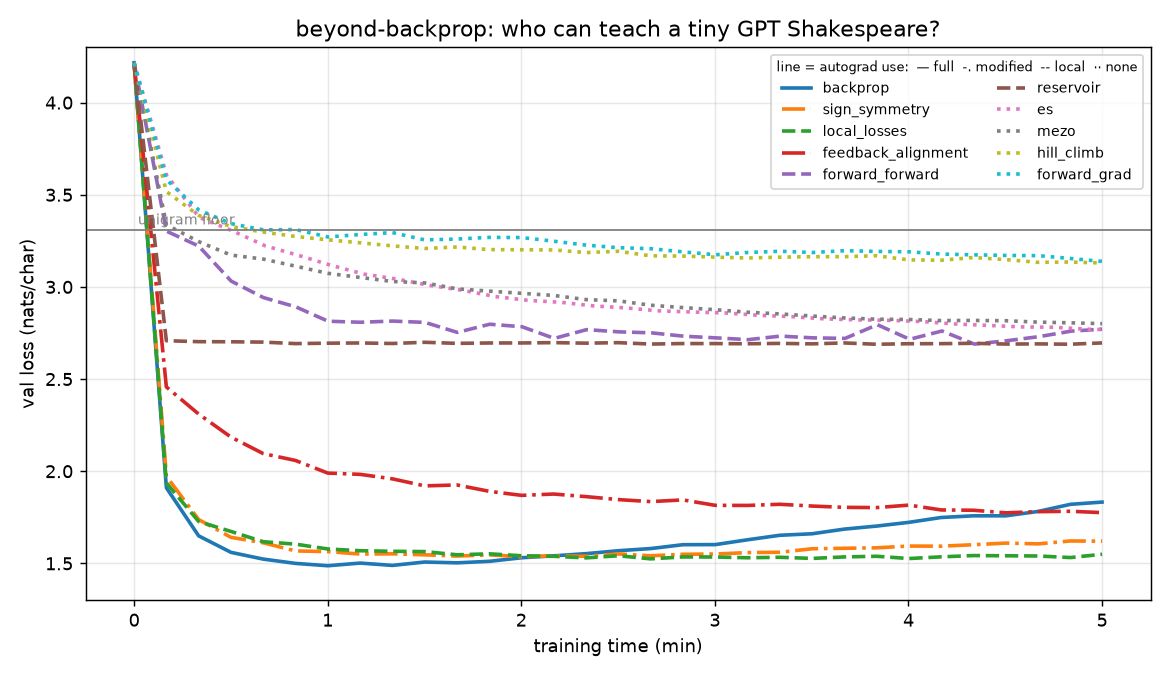
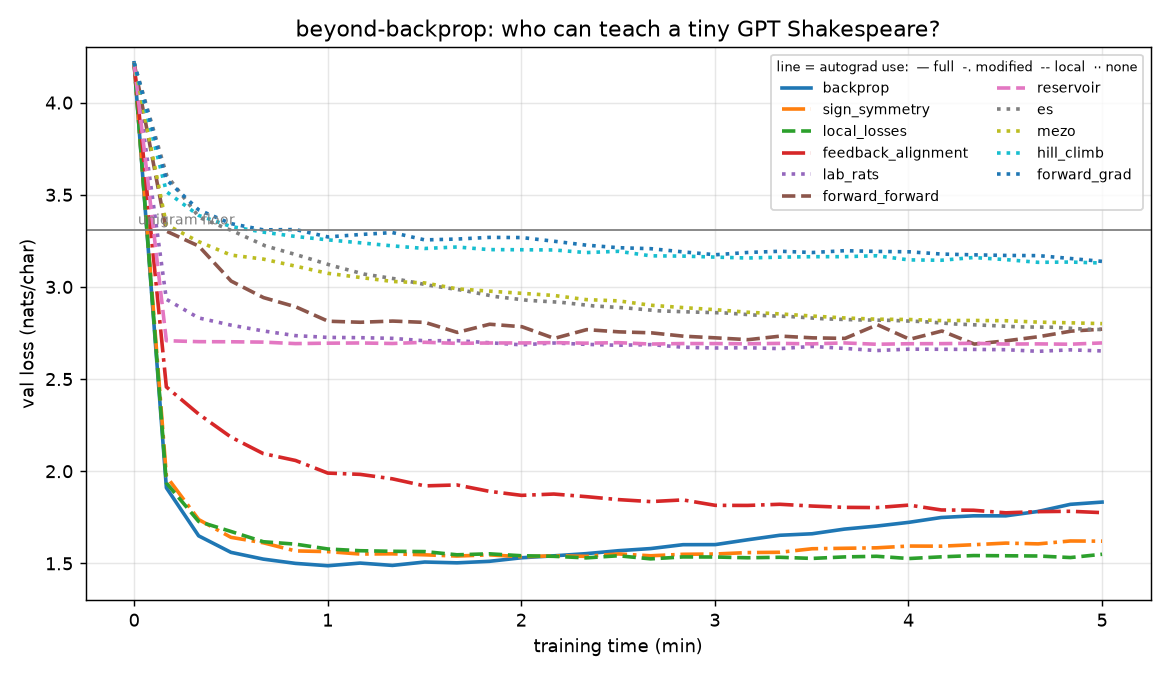
New rule: lab_rats (per-token node perturbation), first no-backward-pass rule to beat the random reservoir

diff --git a/bbp/rules/lab_rats.py b/bbp/rules/lab_rats.py
@@ -1,0 +1,99 @@
+"""LAB RATS: every token is its own experiment.
+
+Weight-perturbation rules (mezo, es, hill_climb) jiggle all 830k weights at
+once and get ONE number back per forward pass: did the loss go up or down?
+Hopeless signal-to-noise.
+
+Here we jiggle *neurons* instead of weights, and we do it independently at
+every token. A batch is 32 x 128 = 4,096 tokens, so one pair of forward passes
+runs 4,096 tiny experiments in parallel:
+
+  1. forward with +noise on the output of every Linear layer (and the embedding),
+     fresh noise for every token and every neuron
+  2. forward again with the *same* noise flipped to -noise
+  3. per token, the loss difference says whether that token's jolt helped:
+         dL/dy  ~=  (L+ - L-) / (2 sigma^2) * noise
+  4. each layer turns that into a weight update the Hebbian way, as an outer
+     product with its own input:  dW = sum_tokens  dL/dy (x) input
+
+No backward pass, no autograd, no weight transport. Every update is local to
+its layer; the only global thing is the per-token loss, broadcast like a
+dopamine signal.
+
+The cheat it makes: a token's loss difference is credited only to the noise at
+*that* token, ignoring how it leaked into later tokens through attention.
+Biased, but orders of magnitude less noisy.
+
+Lineage: node perturbation (Williams 1992; Fiete & Seung 2006; Dalm et al. 2023).
+The per-token-credit twist is the crazy bit.
+"""
+import torch
+import torch.nn as nn
+import torch.nn.functional as F
+
+from . import Rule, register
+
+
+@register
+class LabRats(Rule):
+    name = "lab_rats"
+    autograd = "none"
+    blurb = "Jolt every neuron at every token, 4,096 parallel experiments per batch; per-token loss change -> Hebbian outer-product updates."
+    paper = "node perturbation (Williams 1992; Fiete & Seung 2006) + per-token credit in a causal LM (the twist tried here)"
+    defaults = dict(lr=1e-3, sigma=0.03)
+
+    def __init__(self, model, **hp):
+        super().__init__(model, **hp)
+        self.lins = [m for m in model.modules() if isinstance(m, nn.Linear)]
+        self.sites = self.lins + [model.tok_emb]  # where noise is injected
+        self.mode = 0  # 0 = clean (evaluation), +1 / -1 = antithetic noisy passes
+        self.noise, self.inputs = {}, {}
+        for m in self.sites:
+            m.register_forward_hook(self._hook)
+        params = [p for m in self.lins for p in m.parameters()]
+        params += [model.tok_emb.weight, model.pos_emb.weight]
+        self.opt = torch.optim.Adam(params, lr=self.hp["lr"])
+
+    def _hook(self, mod, inp, out):
+        if self.mode == 0:
+            return None
+        if self.mode == 1:
+            self.noise[mod] = torch.randn_like(out) * self.hp["sigma"]
+            self.inputs[mod] = inp[0]
+        else:  # average the + and - inputs: ~ the clean input, to first order
+            self.inputs[mod] = 0.5 * (self.inputs[mod] + inp[0]) if inp[0].is_floating_point() else inp[0]
+        return out + self.mode * self.noise[mod]
+
+    def _token_losses(self, x, y):
+        logits, _ = self.model(x)
+        return F.cross_entropy(logits.transpose(1, 2), y, reduction="none")  # (B, T)
+
+    @torch.no_grad()
+    def step(self, x, y):
+        sigma = self.hp["sigma"]
+        self.mode = 1
+        lp = self._token_losses(x, y)
+        self.mode = -1
+        lm = self._token_losses(x, y)
+        self.mode = 0
+        coef = (lp - lm) / (2 * sigma**2)  # (B, T): how much each token's jolt hurt
+        N = x.numel()
+
+        for m in self.lins:
+            g = coef.unsqueeze(-1) * self.noise[m]  # dL/d(output), per token
+            xin = self.inputs[m]
+            m.weight.grad = torch.einsum("bto,bti->oi", g, xin) / N  # Hebbian outer product
+            if m.bias is not None:
+                m.bias.grad = g.sum((0, 1)) / N
+        # embedding: the jolt on tok_emb's output is a jolt on (tok_emb + pos_emb)
+        emb = self.model.tok_emb
+        g = (coef.unsqueeze(-1) * self.noise[emb]).reshape(-1, emb.weight.size(1))
+        emb.weight.grad = torch.zeros_like(emb.weight).index_add_(0, x.reshape(-1), g) / N
+        pos = self.model.pos_emb.weight
+        pos.grad = torch.zeros_like(pos)
+        pos.grad[: x.size(1)] = g.view(*x.shape, -1).sum(0) / N
+
+        self.opt.step()
+        self.noise.clear(); self.inputs.clear()
+        self.forwards += 2
+        return 0.5 * (lp.mean().item() + lm.mean().item())

diff --git a/README.md b/README.md
@@ -23,12 +23,13 @@ is *by how much*, and *why*.
 | 2 | `sign_symmetry` | 🪞 modified | 1.675 | +0.047 | yes | 2.0 min | 20,864 | 20,864 | lr=0.001 |
 | 3 | `local_losses` | 🧱 local | 1.743 | +0.114 | yes | 2.7 min | 18,457 | 18,457 | lr=0.002 |
 | 4 | `feedback_alignment` | 🪞 modified | 1.911 | +0.282 | yes | 4.5 min | 21,233 | 21,233 | lr=0.001 |
-| 5 | `forward_forward` | 🧱 local | 2.698 | +1.069 | yes | 4.3 min | 10,107 | 20,214 | lr=0.009 |
-| 6 | `reservoir` | 🧱 local | 2.716 | +1.088 | — | 3.8 min | 52,867 | 52,867 | lr=0.003 |
-| 7 | `es` | 🚫 none | 2.788 | +1.160 | no | 5.0 min | 895 | 57,280 | lr=0.003 |
-| 8 | `mezo` | 🚫 none | 2.818 | +1.190 | no | 5.0 min | 25,747 | 51,494 | lr=0.0009 |
-| 9 | `hill_climb` | 🚫 none | 3.153 | +1.524 | no | 5.0 min | 24,757 | 49,514 | sigma=0.01 |
-| 10 | `forward_grad` | 🚫 none | 3.167 | +1.539 | no | 5.0 min | 9,280 | 9,280 | lr=0.0018 |
+| 5 | `lab_rats` | 🚫 none | 2.650 | +1.021 | yes | 4.7 min | 16,558 | 33,116 | lr=0.00033 |
+| 6 | `forward_forward` | 🧱 local | 2.698 | +1.069 | yes | 4.3 min | 10,107 | 20,214 | lr=0.009 |
+| 7 | `reservoir` | 🧱 local | 2.716 | +1.088 | — | 3.8 min | 52,867 | 52,867 | lr=0.003 |
+| 8 | `es` | 🚫 none | 2.788 | +1.160 | no | 5.0 min | 895 | 57,280 | lr=0.003 |
+| 9 | `mezo` | 🚫 none | 2.818 | +1.190 | no | 5.0 min | 25,747 | 51,494 | lr=0.0009 |
+| 10 | `hill_climb` | 🚫 none | 3.153 | +1.524 | no | 5.0 min | 24,757 | 49,514 | sigma=0.01 |
+| 11 | `forward_grad` | 🚫 none | 3.167 | +1.539 | no | 5.0 min | 9,280 | 9,280 | lr=0.0018 |
 | | *unigram (letter frequencies only)* | | 3.309 | | | | | | |
 | | *untrained / uniform guess* | | 4.216 | | | | | | |
 
@@ -100,6 +101,15 @@ LENRLEY:
 I not sweear strue:
 I knew farew dam, you of not say, if come defence,
 And the me here, my pown, to the at to the 
+```
+
+**lab_rats** (test 2.650)
+
+```
+ROMEO:
+Thore hisd hes selte loHou meaman youd Ixtlst t Meco uroy he nt beere heth thin berelis sg serilose atho y we we per ancos iare fofr nd- mit thyoo we w y t f acin Iiserethind tesco n s uwed
+Iur h. f antolorf pif and ly moof nhessay ed t ou ld fleo thinle ind t he the s t in,
+S y ton theg t st
 ```
 
 **forward_forward** (test 2.698)
@@ -200,9 +210,15 @@ e n..Se aIofeorf pe ne mily mooe n t say eiI codele fleomeeinor imkee s t dn se.
   just slower, because the forward weights first have to "align" with it.
 - **Forward-Forward only barely beats a frozen random network** (2.698 vs 2.716): its blocks
   learn something, but almost none of it helps predict the next character.
-- **Every rule with no backward pass at all loses to the frozen random network.** ES and
-  MeZO are still improving at minute 5, though; this is the bracket where longer budgets
-  and better ideas have the most room. Go win it.
+- **The classic no-backward-pass rules all lose to the frozen random network.** ES, MeZO,
+  forward-gradient and hill-climbing jiggle *weights*, and one loss number per forward pass
+  is hopeless signal for 830k of them.
+- **🐀 `lab_rats` is the first no-backward-pass rule to beat the floor** (2.650 vs 2.716, and 2.651 vs 2.716 on a second seed,
+  and ahead of Forward-Forward). It jiggles *neurons* instead, independently at every one of
+  the 4,096 tokens in a batch, so two forward passes run 4,096 tiny experiments at once.
+  Its gradient estimate lines up with the true gradient at cosine 0.01–0.16 per layer,
+  vs ~0.0003 for a MeZO-style random direction. Still +1.0 nats behind backprop, and still
+  improving at minute 5: plenty of room in this bracket. Go win it.
 
 **How to read it**
 - **test loss**: cross-entropy on held-out Shakespeare, nats per character. Lower is better.
@@ -237,6 +253,7 @@ e n..Se aIofeorf pe ne mily mooe n t say eiI codele fleomeeinor imkee s t dn se.
 | `forward_grad` | 🚫 none | One forward-mode JVP along a random direction v gives (∇L·v); use (∇L·v)v as the gradient. Unbiased, hugely noisy. | Baydin et al. 2022 |
 | `mezo` | 🚫 none | SPSA: nudge all weights by ±εz, compare two losses, step along z. No autograd, no activation memory. | Spall 1992; Malladi et al. 2023 |
 | `es` | 🚫 none | Evolution strategies: 64 noisy clones evaluated in parallel with `vmap`, ranked, weights drift toward the winners. | Salimans et al. 2017 |
+| `lab_rats` 🐀 | 🚫 none | **Every token is an experiment.** Jolt every neuron with fresh noise at every token, run ±noise forward passes, and credit each token's loss change to that token's jolt. Each layer then updates Hebbian-style (jolt-credit ⊗ its own input). No backward pass, no weight transport, only a per-token "dopamine" loss signal. | node perturbation (Williams 1992; Fiete & Seung 2006) + per-token credit in a causal LM (the twist tried here) |
 | `hill_climb` | 🚫 none | Jiggle every weight at random; keep it if the loss dropped. The dumbest possible learner, as a floor. | Rechenberg 1973 |
 
 ## Quickstart
